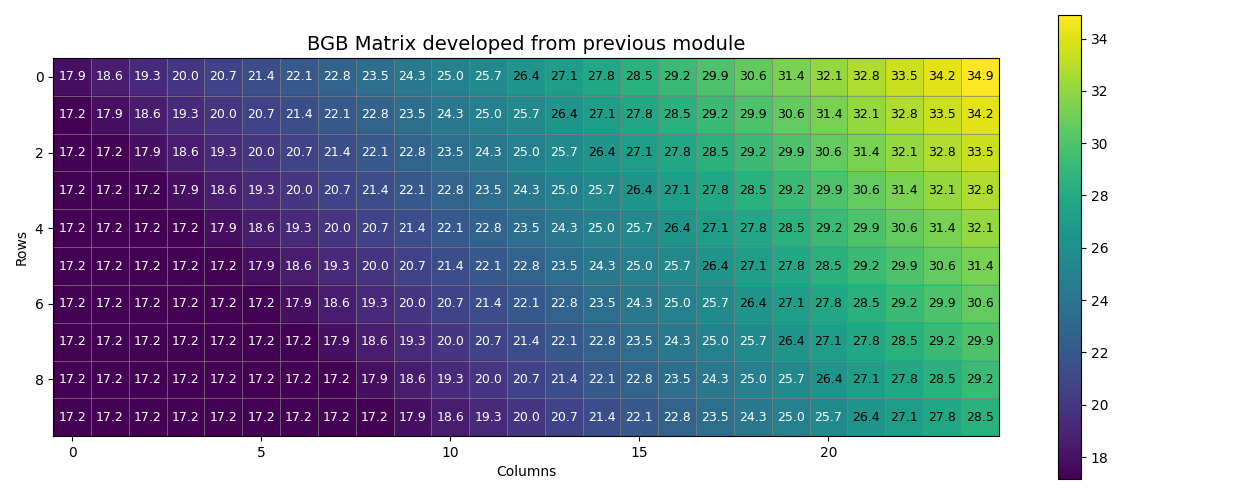
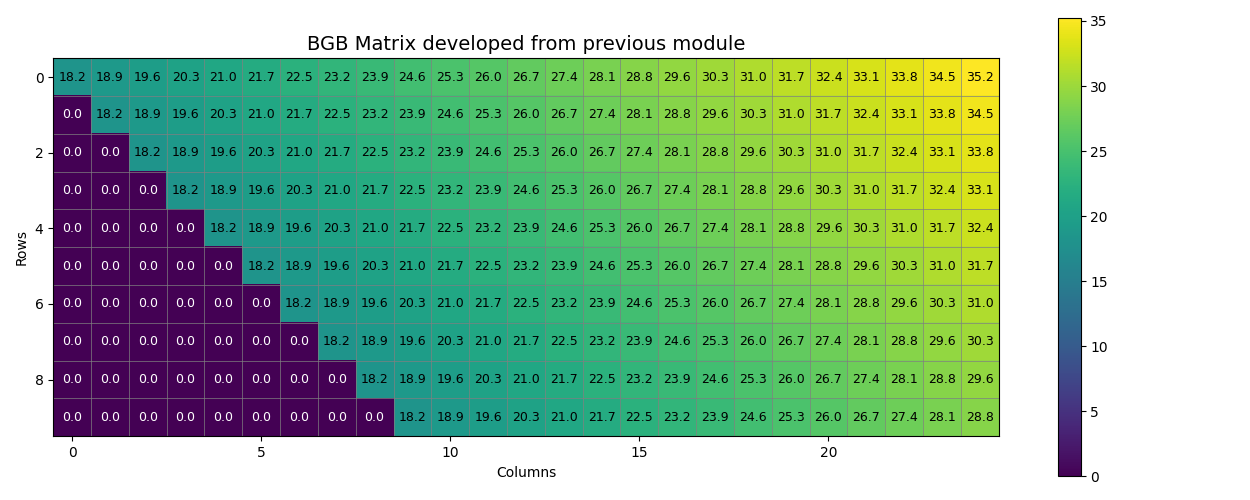
Add affo_bool to ForestManagement

diff --git a/djangoexact/math_model/no_time_dependency_final/forest_management.py b/djangoexact/math_model/no_time_dependency_final/forest_management.py
@@ -169,6 +169,7 @@ class ForestManagement(BaseModule):
         ########### AGB AND BGB MATRIX CREATION ############
         # NOTE: We have to understand if we're in Afforestation or Forest Remaining Forest (Deforesation Occurs in the Defo module)
         affo_bool = self.hectares_end > self.hectares_start
+        self.affo_bool = affo_bool
         
         if self.agb_start == 0:
             # This is the case of afforestation, as we don't have any AGB or BGB at the start
@@ -186,11 +187,11 @@ class ForestManagement(BaseModule):
                 if self.bgb_yearly_growth_over_20_tier_2 and self.bgb_yearly_growth_under_20_tier_2:
                     bgb_matrix, delta_bgb_matrix = create_agb_bgb_matrix(self.implementation_time, self.capitalization_time, self.bgb_yearly_growth_over_20_tier_2, self.bgb_yearly_growth_over_20_tier_2, self.bgb_start, self.rotation_recurrence, affo_bool)
                 else:
-                    bgb_matrix, delta_bgb_matrix = create_bgb_matrix_from_agb(agb_matrix, delta_agb_matrix, self.bgb_ratio_under_threshold, self.bgb_ratio_over_threshold, self.bgb_ratio_threshold, self.bgb_start, self.implementation_time)
+                    bgb_matrix, delta_bgb_matrix = create_bgb_matrix_from_agb(agb_matrix, delta_agb_matrix, self.bgb_ratio_under_threshold, self.bgb_ratio_over_threshold, self.bgb_ratio_threshold, self.bgb_start, self.implementation_time, affo_bool, self.is_same_forest_type)
             else:
                 # NOTE: This means we have the same forest type, hence we don't have to create a new agb and bgb matrix, but we can use the one from the previous forest module
                 agb_matrix, delta_agb_matrix = create_agb_bgb_matrix(self.implementation_time, self.capitalization_time, self.agb_yearly_growth_over_20, self.agb_yearly_growth_over_20, self.agb_start, self.rotation_recurrence, affo_bool, self.is_same_forest_type, self.forest_start )
-                bgb_matrix, delta_bgb_matrix = create_bgb_matrix_from_agb(agb_matrix, delta_agb_matrix, self.bgb_ratio_under_threshold, self.bgb_ratio_over_threshold, self.bgb_ratio_threshold, self.bgb_start, self.implementation_time)
+                bgb_matrix, delta_bgb_matrix = create_bgb_matrix_from_agb(agb_matrix, delta_agb_matrix, self.bgb_ratio_under_threshold, self.bgb_ratio_over_threshold, self.bgb_ratio_threshold, self.bgb_start, self.implementation_time, affo_bool, self.is_same_forest_type, self.forest_start)
                 
                 plot_matrix_with_values(self.forest_start.agb_matrix, title="agb matrix from previous module")
                 plot_matrix_with_values(self.forest_start.bgb_matrix, title="BGB Matrix from previous module")
@@ -214,25 +215,35 @@ class ForestManagement(BaseModule):
         def calculate_rotation():
             
             try:
-                result_rotation_agb, rotation_matrix_agb, delta_agb_matrix, agb_matrix = calculate_rotation_effect(self.agb_matrix, self.delta_agb_matrix, self.max_agb_value, self.rotation_recurrence, self.rotation_start_year)
-                result_rotation_bgb, rotation_matrix_bgb, delta_bgb_matrix, bgb_matrix = calculate_rotation_effect(self.bgb_matrix, self.delta_bgb_matrix, self.max_bgb_value, self.rotation_recurrence, self.rotation_start_year)
                 
-                rotation_times_hectares_agb = multiply_matrix_by_matrix(rotation_matrix_agb, self.hectares_for_rot_log_dis)
-                rotation_times_hectares_bgb = multiply_matrix_by_matrix(rotation_matrix_bgb, self.hectares_for_rot_log_dis)
+                # NOTE: No emissions for Rotation are generated in the START scenario, new practices are applied. Even though the matrix is not null, 
+                # the hectares are null, hence no emissions are generated. The check on affo_bool means it's not the start scenario, no rotation in start
+                if self.affo_bool:
+                    result_rotation_agb, rotation_matrix_agb, delta_agb_matrix, agb_matrix = calculate_rotation_effect(self.agb_matrix, self.delta_agb_matrix, self.max_agb_value, self.rotation_recurrence, self.rotation_start_year)
+                    result_rotation_bgb, rotation_matrix_bgb, delta_bgb_matrix, bgb_matrix = calculate_rotation_effect(self.bgb_matrix, self.delta_bgb_matrix, self.max_bgb_value, self.rotation_recurrence, self.rotation_start_year)
+                    
+                    plot_matrix_with_values(self.agb_matrix, title="AGB Matrix in rotation")
+                    plot_matrix_with_values(self.bgb_matrix, title="BGB Matrix in rotation")
+                    
+                    plot_matrix_with_values(rotation_matrix_agb, title="Rotation Matrix AGB")
+                    plot_matrix_with_values(rotation_matrix_bgb, title="Rotation Matrix BGB")
+                    
+                    rotation_times_hectares_agb = multiply_matrix_by_matrix(rotation_matrix_agb, self.hectares_for_rot_log_dis)
+                    rotation_times_hectares_bgb = multiply_matrix_by_matrix(rotation_matrix_bgb, self.hectares_for_rot_log_dis)
 
-                (hwp_rotation_agb, hwp_rotation_bgb, nitrous_fire_component_agb, methane_fire_component_agb, nitrous_fire_component_bgb, methane_fire_component_bgb, co2_fire_component_agb, co2_fire_component_bgb) = breakdown_agb_bgb_emissions(rotation_times_hectares_agb, rotation_times_hectares_bgb, self.rotation_percentage_energy, self.forest_cf, self.forest_gef_ch4, self.forest_gef_n2o, self.forest_gef_co2, self.mangrove_factor, self.ef_nitrous, self.ef_methane)
+                    (hwp_rotation_agb, hwp_rotation_bgb, nitrous_fire_component_agb, methane_fire_component_agb, nitrous_fire_component_bgb, methane_fire_component_bgb, co2_fire_component_agb, co2_fire_component_bgb) = breakdown_agb_bgb_emissions(rotation_times_hectares_agb, rotation_times_hectares_bgb, self.rotation_percentage_energy, self.forest_cf, self.forest_gef_ch4, self.forest_gef_n2o, self.forest_gef_co2, self.mangrove_factor, self.ef_nitrous, self.ef_methane)
 
-                self.result.yearly_emissions_by_sector_by_gas.append(YearlyGasActivityEmissionSet(year=0, gas_type=GasTypes.CO2, emissions=[Emission(e, GasTypes.CO2) for e in hwp_rotation_agb], activity=ActivityTypes.HWP_ROTATION_AGB, delay=self.delay))
-                self.result.yearly_emissions_by_sector_by_gas.append(YearlyGasActivityEmissionSet(year=0, gas_type=GasTypes.CO2, emissions=[Emission(e, GasTypes.CO2) for e in hwp_rotation_bgb], activity=ActivityTypes.HWP_ROTATION_BGB, delay=self.delay))
-                self.result.yearly_emissions_by_sector_by_gas.append(YearlyGasActivityEmissionSet(year=0, gas_type=GasTypes.N2O, emissions=[Emission(e, GasTypes.N2O) for e in nitrous_fire_component_agb], activity=ActivityTypes.ROTATION_AGB, delay=self.delay))
-                self.result.yearly_emissions_by_sector_by_gas.append(YearlyGasActivityEmissionSet(year=0, gas_type=GasTypes.CH4, emissions=[Emission(e, GasTypes.CH4) for e in methane_fire_component_agb], activity=ActivityTypes.ROTATION_AGB, delay=self.delay))
-                self.result.yearly_emissions_by_sector_by_gas.append(YearlyGasActivityEmissionSet(year=0, gas_type=GasTypes.N2O, emissions=[Emission(e, GasTypes.N2O) for e in nitrous_fire_component_bgb], activity=ActivityTypes.ROTATION_BGB, delay=self.delay))
-                self.result.yearly_emissions_by_sector_by_gas.append(YearlyGasActivityEmissionSet(year=0, gas_type=GasTypes.CH4, emissions=[Emission(e, GasTypes.CH4) for e in methane_fire_component_bgb], activity=ActivityTypes.ROTATION_BGB, delay=self.delay))
-                self.result.yearly_emissions_by_sector_by_gas.append(YearlyGasActivityEmissionSet(year=0, gas_type=GasTypes.CO2, emissions=[Emission(e, GasTypes.CO2) for e in co2_fire_component_agb], activity=ActivityTypes.ROTATION_AGB, delay=self.delay))
-                self.result.yearly_emissions_by_sector_by_gas.append(YearlyGasActivityEmissionSet(year=0, gas_type=GasTypes.CO2, emissions=[Emission(e, GasTypes.CO2) for e in co2_fire_component_bgb], activity=ActivityTypes.ROTATION_BGB, delay=self.delay))
-                
-                # NOTE: This is necessary as we need to update the delta matrices with the new values because they are used further on for bgb and agb calculations
-                self.update_delta_agb_and_bgb_matrix(delta_agb_matrix, delta_bgb_matrix, agb_matrix, bgb_matrix)
+                    self.result.yearly_emissions_by_sector_by_gas.append(YearlyGasActivityEmissionSet(year=0, gas_type=GasTypes.CO2, emissions=[Emission(e, GasTypes.CO2) for e in hwp_rotation_agb], activity=ActivityTypes.HWP_ROTATION_AGB, delay=self.delay))
+                    self.result.yearly_emissions_by_sector_by_gas.append(YearlyGasActivityEmissionSet(year=0, gas_type=GasTypes.CO2, emissions=[Emission(e, GasTypes.CO2) for e in hwp_rotation_bgb], activity=ActivityTypes.HWP_ROTATION_BGB, delay=self.delay))
+                    self.result.yearly_emissions_by_sector_by_gas.append(YearlyGasActivityEmissionSet(year=0, gas_type=GasTypes.N2O, emissions=[Emission(e, GasTypes.N2O) for e in nitrous_fire_component_agb], activity=ActivityTypes.ROTATION_AGB, delay=self.delay))
+                    self.result.yearly_emissions_by_sector_by_gas.append(YearlyGasActivityEmissionSet(year=0, gas_type=GasTypes.CH4, emissions=[Emission(e, GasTypes.CH4) for e in methane_fire_component_agb], activity=ActivityTypes.ROTATION_AGB, delay=self.delay))
+                    self.result.yearly_emissions_by_sector_by_gas.append(YearlyGasActivityEmissionSet(year=0, gas_type=GasTypes.N2O, emissions=[Emission(e, GasTypes.N2O) for e in nitrous_fire_component_bgb], activity=ActivityTypes.ROTATION_BGB, delay=self.delay))
+                    self.result.yearly_emissions_by_sector_by_gas.append(YearlyGasActivityEmissionSet(year=0, gas_type=GasTypes.CH4, emissions=[Emission(e, GasTypes.CH4) for e in methane_fire_component_bgb], activity=ActivityTypes.ROTATION_BGB, delay=self.delay))
+                    self.result.yearly_emissions_by_sector_by_gas.append(YearlyGasActivityEmissionSet(year=0, gas_type=GasTypes.CO2, emissions=[Emission(e, GasTypes.CO2) for e in co2_fire_component_agb], activity=ActivityTypes.ROTATION_AGB, delay=self.delay))
+                    self.result.yearly_emissions_by_sector_by_gas.append(YearlyGasActivityEmissionSet(year=0, gas_type=GasTypes.CO2, emissions=[Emission(e, GasTypes.CO2) for e in co2_fire_component_bgb], activity=ActivityTypes.ROTATION_BGB, delay=self.delay))
+                    
+                    # NOTE: This is necessary as we need to update the delta matrices with the new values because they are used further on for bgb and agb calculations
+                    self.update_delta_agb_and_bgb_matrix(delta_agb_matrix, delta_bgb_matrix, agb_matrix, bgb_matrix)
     
             
             except Exception as e:
@@ -457,7 +468,7 @@ inputs_start = {'capitalization_time': 15,
           'disturbance_recurrence': [], 
           'disturbance_percentage': [], 
           'disturbance_year_of_start': [],
-          'logging_recurrence': 2, 
+          'logging_recurrence': None, 
           'logging_percentage': 0.2, 
           'logging_percentage_energy': 0.5,
           'logging_year_of_start': 0, 
@@ -502,13 +513,15 @@ inputs_start = {'capitalization_time': 15,
 
 ao = ForestManagement(**inputs_start)
 ao.calculate_emissions()
+ao.result.plot_emissions_and_aggregate_by_activity('start')
+plot_matrix_with_values(ao.agb_matrix, title="AGB Matrix ao")
 
 inputs_w = {'capitalization_time': 15, 
           'implementation_time': 10, 
           'rate_type': 'linear', 
           'hectares_start': 0, 
           'hectares_end': 1000, 
-          'rotation_recurrence': None, 
+          'rotation_recurrence': 5, 
           'rotation_start_year': 0, 
           'rotation_percentage_energy': 0.2, 
           'bgb_ratio_threshold': 125.0, 
@@ -527,7 +540,7 @@ inputs_w = {'capitalization_time': 15,
           'disturbance_recurrence': [], 
           'disturbance_percentage': [], 
           'disturbance_year_of_start': [],
-          'logging_recurrence': 5, 
+          'logging_recurrence': None, 
           'logging_percentage': 0.02, 
           'logging_percentage_energy': 0.5,
           'logging_year_of_start': 0, 
@@ -572,6 +585,8 @@ inputs_w = {'capitalization_time': 15,
 
 ao2 = ForestManagement(**inputs_w)
 ao2.calculate_emissions()
+
+ao2.result.plot_emissions_and_aggregate_by_activity('with')
 
  
  
